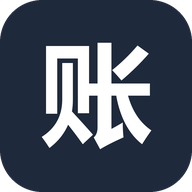
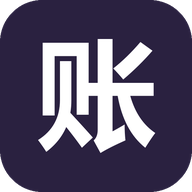
图标改暗紫底：背景从 #1a2233 深蓝黑换成 #2A2140（和软件分组行同色），白字保留；重新生成 192/512 两档（v9.11）；SW v136

diff --git a/sw.js b/sw.js
@@ -1,7 +1,7 @@
 /* 流水账 · Service Worker
    策略：网络优先（在线时永远拿最新版本），失败再回退缓存 —— 断网也能打开。
    改了 index.html 只需重新上传，用户下次联网打开就会自动更新。 */
-const CACHE = 'ledger-v135';
+const CACHE = 'ledger-v136';
 const ASSETS = ['./', './index.html', './manifest.json', './icon-192.png', './icon-512.png'];
 
 self.addEventListener('install', e => {
